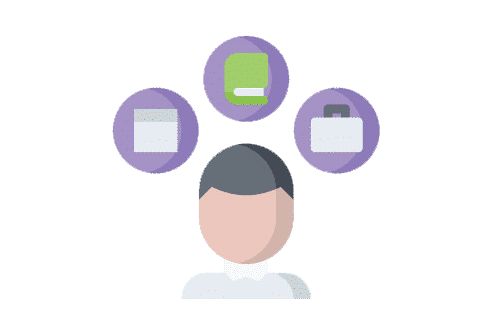
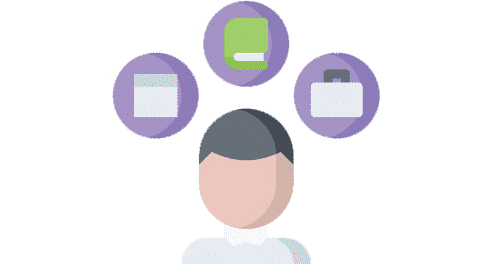
fixes again

Changed region(s): [[0.2143, 0.0, 0.7959, 0.6364], [0.3673, 0.6667, 0.6429, 1.0], [0.2143, 0.3939, 0.2449, 0.4545]]

diff --git a/index.html b/index.html
@@ -5,7 +5,7 @@
     <meta http-equiv="X-UA-Compatible" content="IE=edge">
     <meta name="viewport" content="width=device-width, initial-scale=1.0">
     <link rel="icon" href="ico/logo.png">
-    <link rel="stylesheet" href="css/output.css?v=2">
+    <link rel="stylesheet" href="css/output.css?v=3">
     <link rel="stylesheet" href="https://cdnjs.cloudflare.com/ajax/libs/font-awesome/4.7.0/css/font-awesome.min.css">
     <title>Vladyslav Panov</title>
 </head>

diff --git a/css/input.scss b/css/input.scss
@@ -314,7 +314,7 @@ body {
     .skills-card {
         width: 100%;
         max-width: 280px;
-        height: 370px;
+        height: 375px;
         display: flex;
         justify-content: flex-start;
         align-items: center;

diff --git a/css/output.css b/css/output.css
@@ -245,7 +245,7 @@ body {
   .skills-card {
     width: 100%;
     max-width: 280px;
-    height: 370px;
+    height: 375px;
     display: flex;
     justify-content: flex-start;
     align-items: center;
